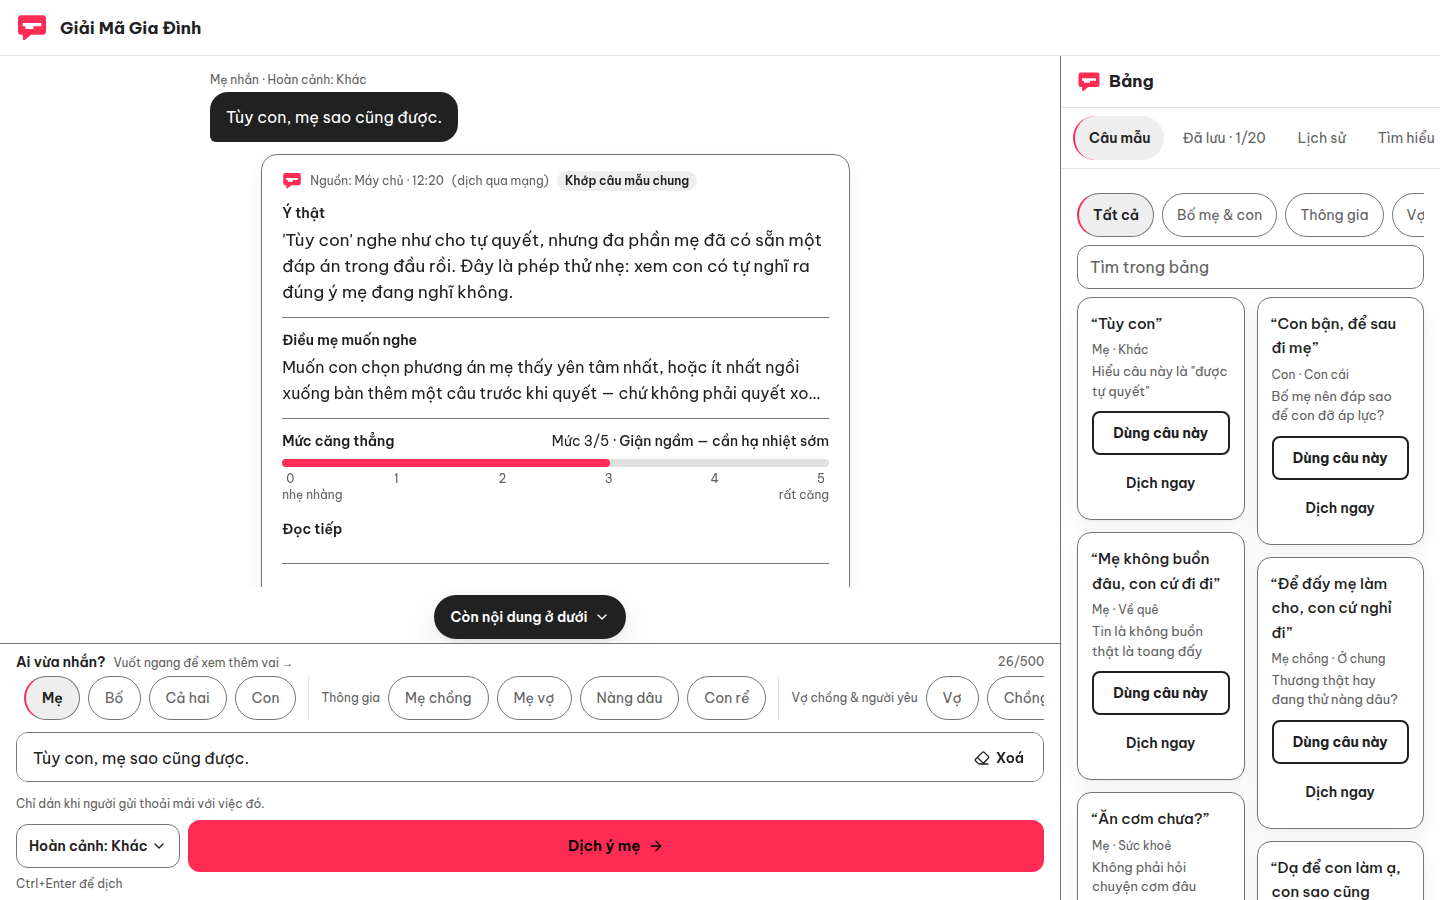
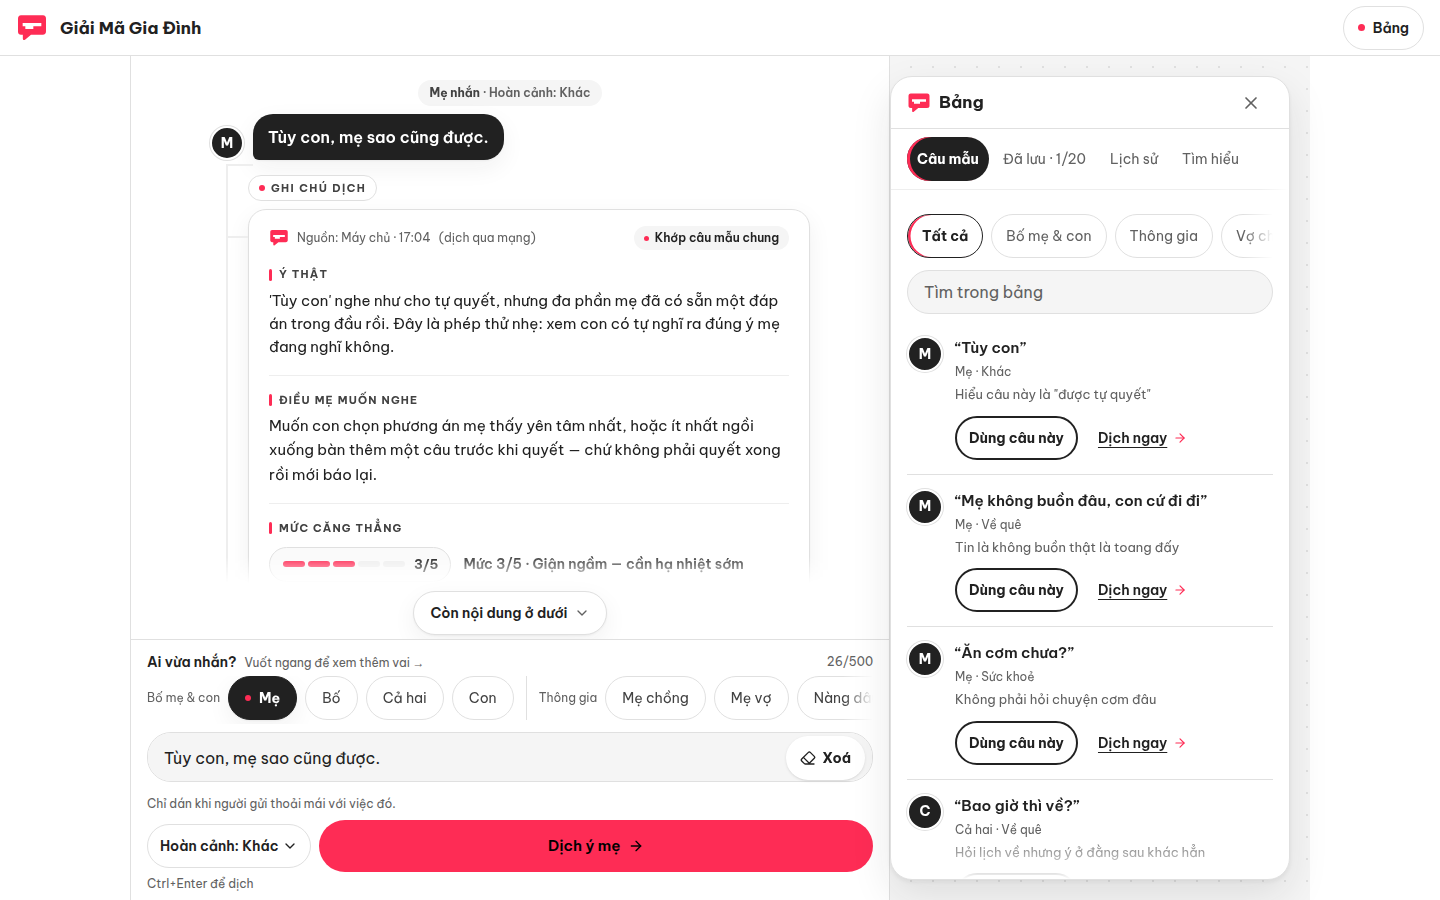
docs: screenshot pack re-shot on live v1.5.0 «Chat» + captions (R2 sha256-verified, 2 checkers PASS)

diff --git a/README.md b/README.md
@@ -38,15 +38,15 @@ tiếng Việt, deterministic** — không gọi AI bên ngoài, không cần đ
 
 ## 📸 Screenshots
 
-Ảnh chụp trực tiếp từ bản live https://dichbome.vercel.app (redesign V4 — accent TikTok #FE2C55 trên canvas trung tính, bản v1.4.1) — mọi ảnh đều là app thật đang chạy với kết quả giải mã thật trên màn hình.
+Ảnh chụp trực tiếp từ bản live https://dichbome.vercel.app (redesign V4 — accent TikTok #FE2C55 trên canvas trung tính, bản v1.5.0 «Chat») — mọi ảnh đều là app thật đang chạy với kết quả giải mã thật trên màn hình.
 
 ![Sân khấu hội thoại trên mobile: bong bóng câu gốc và phiếu giải mã có nhãn nguồn “Máy chủ”, ý thật, điều mẹ muốn nghe và mức căng thẳng 3/5](docs/screenshots/dichbome-mobile.png)
 
 _Phiếu giải mã ngay dưới bong bóng câu gốc: nhãn nguồn cho biết kết quả đến từ máy chủ hay dịch ngay trên máy, kèm ý thật, điều người nhắn muốn nghe và thang căng thẳng 0–5._
 
-![Bản desktop: sân khấu giải mã bên trái, Bảng (câu mẫu, đã lưu, lịch sử) cố định ở cột phải](docs/screenshots/dichbome-desktop.png)
+![Bản desktop: sân khấu giải mã bên trái, Bảng mở dạng panel 400px bên phải (câu mẫu, đã lưu, lịch sử, tìm hiểu)](docs/screenshots/dichbome-desktop.png)
 
-_Desktop: sân khấu bên trái, cột Bảng bên phải luôn hiện thư viện câu mẫu và các tab Đã lưu / Lịch sử._
+_Desktop: sân khấu bên trái; bấm nút Bảng để mở panel 400px bên phải với thư viện câu mẫu và các tab Đã lưu / Lịch sử._
 
 ![Phiếu giải mã cho câu của mẹ chồng trong hoàn cảnh ở chung, mức căng thẳng 1/5](docs/screenshots/gallery-01-phieu-giai-ma-me-chong.png)
 
